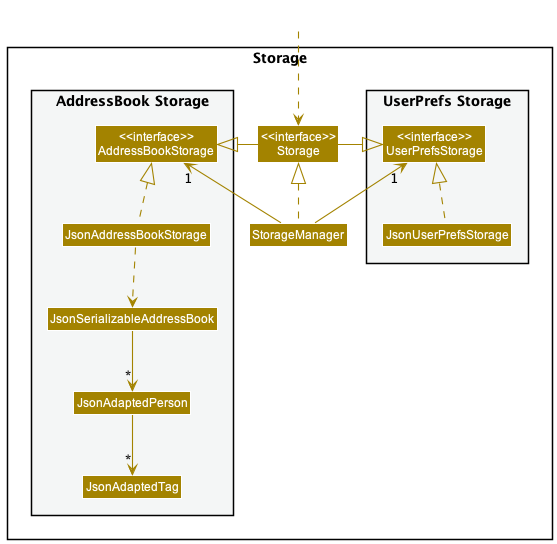
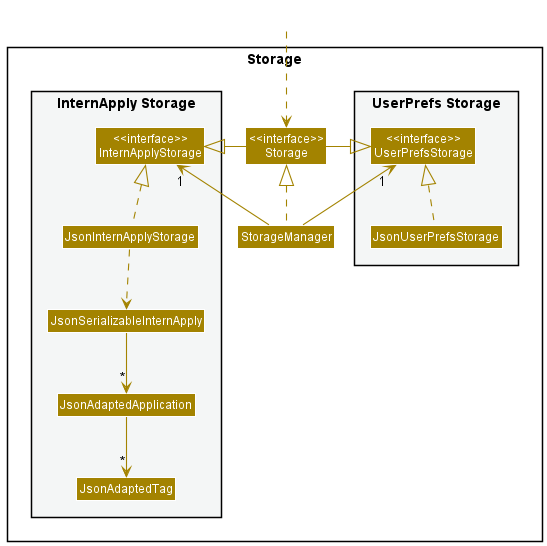
Update to DG, Storage UML Diagram and SettingUp.md

Changed region(s): [[0.0, 0.0938, 0.9634, 0.9688], [0.0311, 0.0625, 0.9945, 0.125]]

diff --git a/docs/DeveloperGuide.md b/docs/DeveloperGuide.md
@@ -15,7 +15,7 @@ title: Developer Guide
 --------------------------------------------------------------------------------------------------------------------
 ## **Introduction**
 
-This project is adapted from `AddressBook3` and makes use of a few of its features. `InternApply` is a project intended for `SOC students` who are applying for internships and are looking to keep track of all their `applications`.
+This project is adapted from `AddressBook3` and makes use of a few of its features. `SoC InternApply` is a project intended for `SOC students` who are applying for internships and are looking to keep track of all their `applications`.
 
 ### This developer guide is intended for users who:
 - Want to `develop` this project further
@@ -155,7 +155,7 @@ How the parsing works:
 [Go To TOC](#table-of-contents)
 
 ### Model component
-**API** : [`Model.java`](https://github.com/se-edu/addressbook-level3/tree/master/src/main/java/seedu/address/model/Model.java)
+**API** : [`Model.java`](https://github.com/AY2122S2-CS2103T-T11-3/tp/blob/master/src/main/java/seedu/address/logic/Logic.java)
 
 <img src="images/ModelClassDiagram.png" width="450" />
 
@@ -177,13 +177,13 @@ The `Model` component,
 
 ### Storage component
 
-**API** : [`Storage.java`](https://github.com/se-edu/addressbook-level3/tree/master/src/main/java/seedu/address/storage/Storage.java)
+**API** : [`Storage.java`](https://github.com/AY2122S2-CS2103T-T11-3/tp/blob/master/src/main/java/seedu/address/storage/Storage.java)
 
 <img src="images/StorageClassDiagram.png" width="550" />
 
 The `Storage` component,
-* can save both address book data and user preference data in json format, and read them back into corresponding objects.
-* inherits from both `AddressBookStorage` and `UserPrefStorage`, which means it can be treated as either one (if only the functionality of only one is needed).
+* can save both SoC InternApply data and user preference data in json format, and read them back into corresponding objects.
+* inherits from both `InterApplyStorage` and `UserPrefStorage`, which means it can be treated as either one (if only the functionality of only one is needed).
 * depends on some classes in the `Model` component (because the `Storage` component's job is to save/retrieve objects that belong to the `Model`)
 
 ### Common classes
@@ -562,7 +562,7 @@ _{more aspects and alternatives to be added}_
 * prefers typing to mouse interactions
 * is reasonably comfortable using CLI apps
 
-**Value proposition**: manage contacts faster than a typical mouse/GUI driven app
+**Value proposition**: manage internship applications faster than a typical mouse/GUI driven app
 
 
 ### User stories
@@ -662,8 +662,6 @@ Priorities: High (must have) - `* * *`, Medium (nice to have) - `* *`, Low (unli
 2.  Should be able to hold up to 1000 internship applications without a noticeable sluggishness in performance for typical usage.
 3.  A user with above average typing speed for regular English text (i.e. not code, not system admin commands) should be able to accomplish most of the tasks faster using commands than using the mouse.
 
-*{More to be added}*
-
 ### Glossary
 
 * **Mainstream OS**: Windows, Linux, Unix, OS-X
@@ -687,7 +685,7 @@ testers are expected to do more *exploratory* testing.
 
    1. Download the jar file and copy into an empty folder
 
-   1. Double-click the jar file Expected: Shows the GUI with a set of sample contacts. The window size may not be optimum.
+   1. Double-click the jar file Expected: Shows the GUI with a set of sample applications. The window size may not be optimum.
 
 1. Saving window preferences
 

diff --git a/docs/SettingUp.md b/docs/SettingUp.md
@@ -45,7 +45,7 @@ If you plan to use Intellij IDEA (highly recommended):
 
 1. **Learn the design**
 
-   When you are ready to start coding, we recommend that you get some sense of the overall design by reading about [AddressBook’s architecture](DeveloperGuide.md#architecture).
+   When you are ready to start coding, we recommend that you get some sense of the overall design by reading about [SoC InternApply’s architecture](DeveloperGuide.md#architecture).
 
 1. **Do the tutorials**
    These tutorials will help you get acquainted with the codebase.
